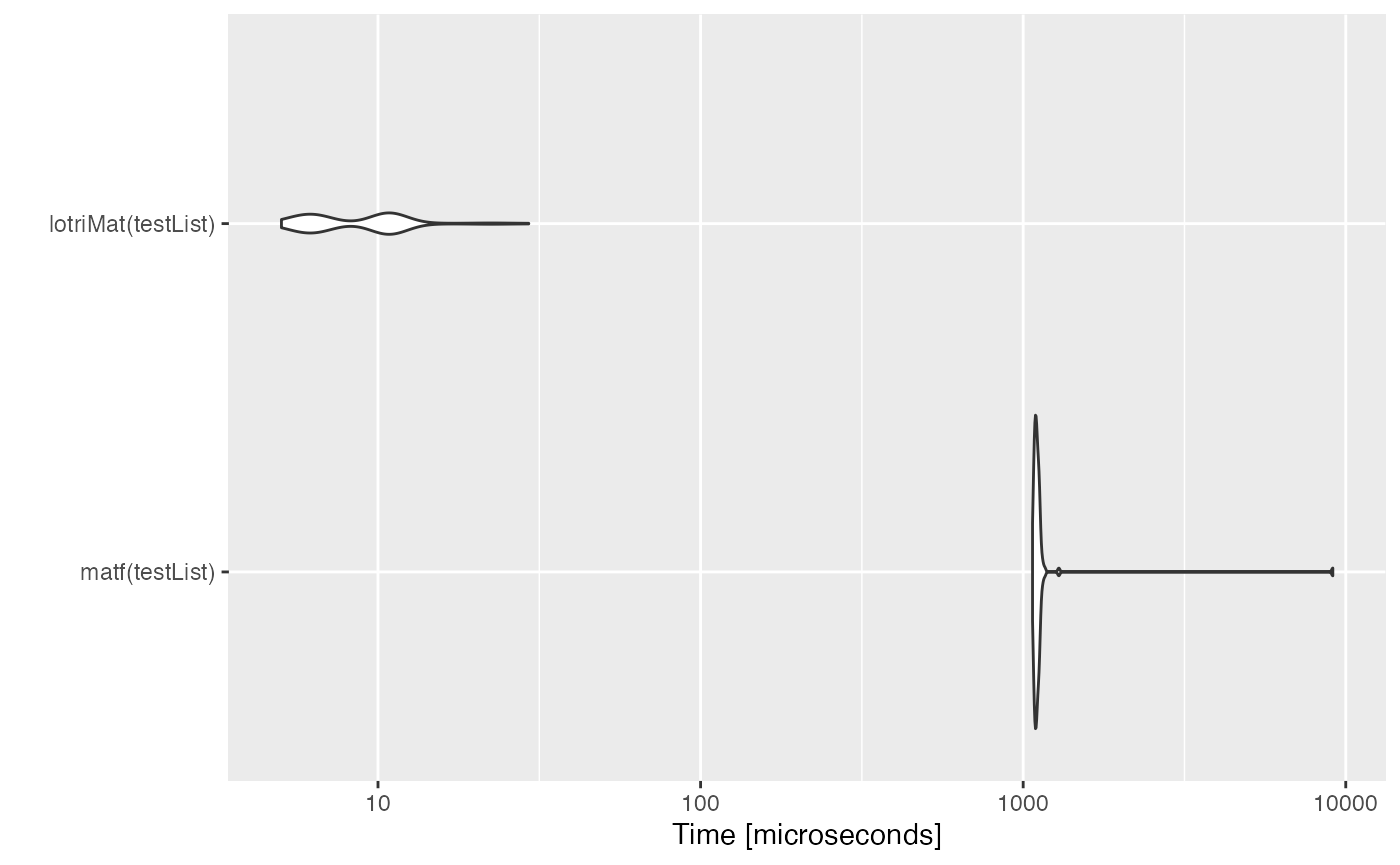
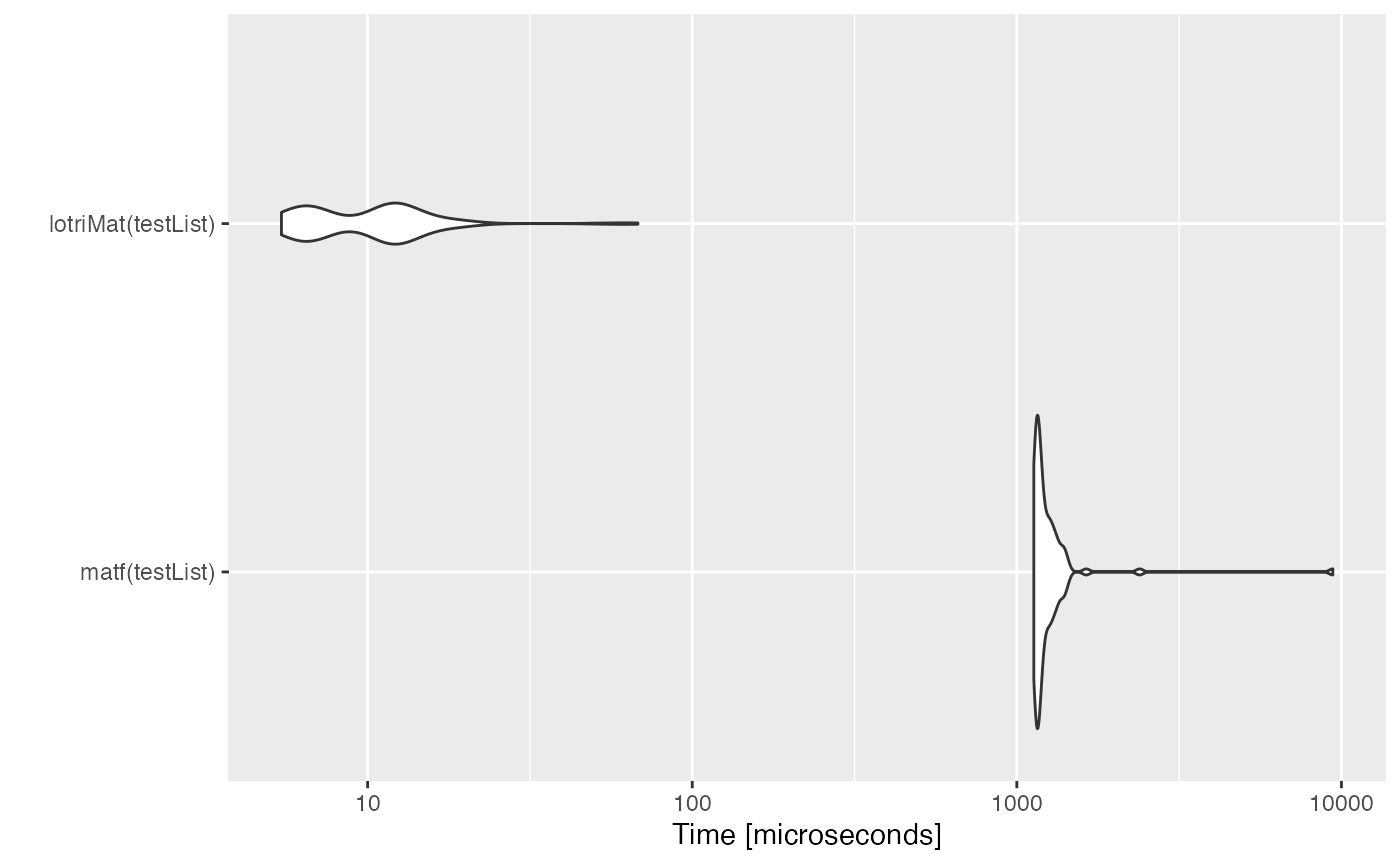
Built site for lotri: 0.3.1@d47a3da

diff --git a/reference/lotri.html b/reference/lotri.html
@@ -132,7 +132,7 @@
     <p>Easily Specify block-diagonal matrices with lower triangular info</p>
     </div>
 
-    <pre class="usage"><span class='fu'>lotri</span><span class='op'>(</span><span class='va'>x</span>, <span class='va'>...</span>, envir <span class='op'>=</span> <span class='fu'><a href='https://rdrr.io/r/base/sys.parent.html'>parent.frame</a></span><span class='op'>(</span><span class='op'>)</span><span class='op'>)</span></pre>
+    <pre class="usage"><span class='fu'>lotri</span><span class='op'>(</span><span class='va'>x</span>, <span class='va'>...</span>, envir <span class='op'>=</span> <span class='fu'><a href='https://rdrr.io/r/base/sys.parent.html'>parent.frame</a></span><span class='op'>(</span><span class='op'>)</span>, default <span class='op'>=</span> <span class='st'>"id"</span><span class='op'>)</span></pre>
 
     <h2 class="hasAnchor" id="arguments"><a class="anchor" href="#arguments"></a>Arguments</h2>
     <table class="ref-arguments">
@@ -151,6 +151,11 @@ concatenated then reapplied to this function.</p></td>
       <td><p>the <code><a href='https://rdrr.io/r/base/environment.html'>environment</a></code> in which <code>expr</code> is to
     be evaluated.  May also be <code>NULL</code>, a list, a data frame,
     a pairlist or an integer as specified to <code><a href='https://rdrr.io/r/base/sys.parent.html'>sys.call</a></code>.</p></td>
+    </tr>
+    <tr>
+      <th>default</th>
+      <td><p>Is the default factor when no conditioning is
+implemented.</p></td>
     </tr>
     </table>
 
@@ -280,7 +285,7 @@ concatenated then reapplied to this function.</p></td>
 </div><div class='output co'>#&gt; NULL</div><div class='input'>
 <span class='co'>## You can also change the default condition with `as.lotri`</span>
 
-<span class='va'>mat</span> <span class='op'>&lt;-</span> <span class='fu'><a href='as.lotri.html'>as.lotri</a></span><span class='op'>(</span><span class='va'>mat</span>,default<span class='op'>=</span><span class='st'>"id"</span><span class='op'>)</span>
+<span class='va'>mat</span> <span class='op'>&lt;-</span> <span class='fu'><a href='as.lotri.html'>as.lotri</a></span><span class='op'>(</span><span class='va'>mat</span>, default<span class='op'>=</span><span class='st'>"id"</span><span class='op'>)</span>
 
 <span class='va'>mat</span>
 </div><div class='output co'>#&gt; $id

diff --git a/reference/lotriSep.html b/reference/lotriSep.html
@@ -174,7 +174,8 @@ you could use 'c(occ=3L)'</p></td>
     <p>Matthew Fidler</p>
 
     <h2 class="hasAnchor" id="examples"><a class="anchor" href="#examples"></a>Examples</h2>
-    <pre class="examples"><div class='input'><span class='va'>omega</span> <span class='op'>&lt;-</span> <span class='fu'><a href='lotri.html'>lotri</a></span><span class='op'>(</span><span class='fu'><a href='lotri.html'>lotri</a></span><span class='op'>(</span><span class='va'>eta.Cl</span> <span class='op'>~</span> <span class='fl'>0.1</span>,
+    <pre class="examples"><div class='input'>
+<span class='va'>omega</span> <span class='op'>&lt;-</span> <span class='fu'><a href='lotri.html'>lotri</a></span><span class='op'>(</span><span class='fu'><a href='lotri.html'>lotri</a></span><span class='op'>(</span><span class='va'>eta.Cl</span> <span class='op'>~</span> <span class='fl'>0.1</span>,
                         <span class='va'>eta.Ka</span> <span class='op'>~</span> <span class='fl'>0.1</span><span class='op'>)</span> <span class='op'>|</span> <span class='fu'>id</span><span class='op'>(</span>nu<span class='op'>=</span><span class='fl'>100</span><span class='op'>)</span>,
                   <span class='fu'><a href='lotri.html'>lotri</a></span><span class='op'>(</span><span class='va'>eye.Cl</span> <span class='op'>~</span> <span class='fl'>0.05</span>,
                         <span class='va'>eye.Ka</span> <span class='op'>~</span> <span class='fl'>0.05</span><span class='op'>)</span> <span class='op'>|</span> <span class='fu'>eye</span><span class='op'>(</span>nu<span class='op'>=</span><span class='fl'>50</span><span class='op'>)</span>,

diff --git a/articles/lotri-motivation.html b/articles/lotri-motivation.html
@@ -85,7 +85,7 @@
       <h1 data-toc-skip>Lotri Motivation</h1>
                         <h4 class="author">Matthew Fidler</h4>
             
-            <h4 class="date">2021-02-21</h4>
+            <h4 class="date">2021-02-23</h4>
       
       <small class="dont-index">Source: <a href="https://github.com/nlmixrdevelopment/lotri/blob/master/vignettes/lotri-motivation.Rmd"><code>vignettes/lotri-motivation.Rmd</code></a></small>
       <div class="hidden name"><code>lotri-motivation.Rmd</code></div>
@@ -235,9 +235,9 @@
 
 <span class="fu"><a href="https://rdrr.io/r/base/print.html">print</a></span><span class="op">(</span><span class="va">mb</span><span class="op">)</span>
 <span class="co">#&gt; Unit: microseconds</span>
-<span class="co">#&gt;                expr      min       lq       mean    median       uq      max</span>
-<span class="co">#&gt;      matf(testList) 1069.137 1086.100 1183.39919 1099.2670 1116.666 9117.689</span>
-<span class="co">#&gt;  lotriMat(testList)    5.020    6.168    9.14493   10.3445   10.831   29.334</span>
+<span class="co">#&gt;                expr      min       lq       mean    median        uq      max</span>
+<span class="co">#&gt;      matf(testList) 1128.049 1151.846 1309.72169 1176.8680 1264.9085 9406.189</span>
+<span class="co">#&gt;  lotriMat(testList)    5.426    6.675   11.19222   11.3525   12.3745   68.034</span>
 <span class="co">#&gt;  neval</span>
 <span class="co">#&gt;    100</span>
 <span class="co">#&gt;    100</span>

diff --git a/reference/as.lotri.html b/reference/as.lotri.html
@@ -124,7 +124,7 @@
   <div class="col-md-9 contents">
     <div class="page-header">
     <h1>As lower triangular matrix</h1>
-    <small class="dont-index">Source: <a href='https://github.com/nlmixrdevelopment/lotri/blob/master/R/lotri.R'><code>R/lotri.R</code></a></small>
+    <small class="dont-index">Source: <a href='https://github.com/nlmixrdevelopment/lotri/blob/master/R/as.lotri.R'><code>R/as.lotri.R</code></a></small>
     <div class="hidden name"><code>as.lotri.Rd</code></div>
     </div>
 
@@ -135,6 +135,9 @@
     <pre class="usage"><span class='fu'>as.lotri</span><span class='op'>(</span><span class='va'>x</span>, <span class='va'>...</span>, default <span class='op'>=</span> <span class='st'>""</span><span class='op'>)</span>
 
 <span class='co'># S3 method for matrix</span>
+<span class='fu'>as.lotri</span><span class='op'>(</span><span class='va'>x</span>, <span class='va'>...</span>, default <span class='op'>=</span> <span class='st'>""</span><span class='op'>)</span>
+
+<span class='co'># S3 method for data.frame</span>
 <span class='fu'>as.lotri</span><span class='op'>(</span><span class='va'>x</span>, <span class='va'>...</span>, default <span class='op'>=</span> <span class='st'>""</span><span class='op'>)</span>
 
 <span class='co'># S3 method for default</span>
